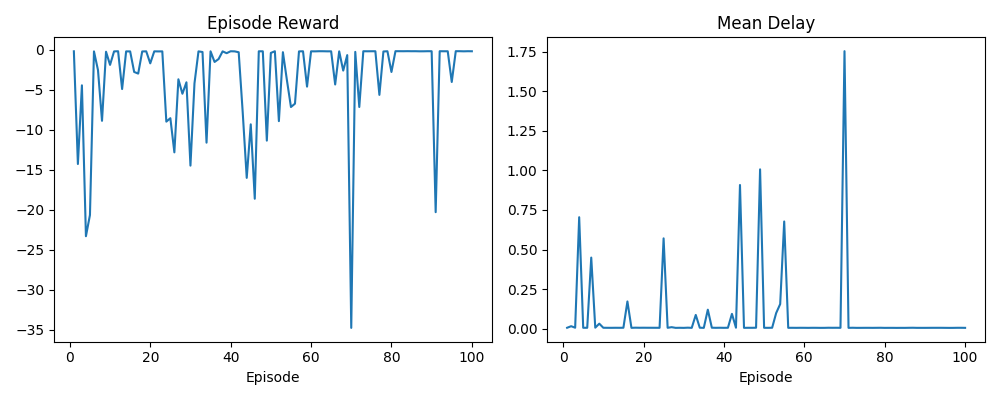
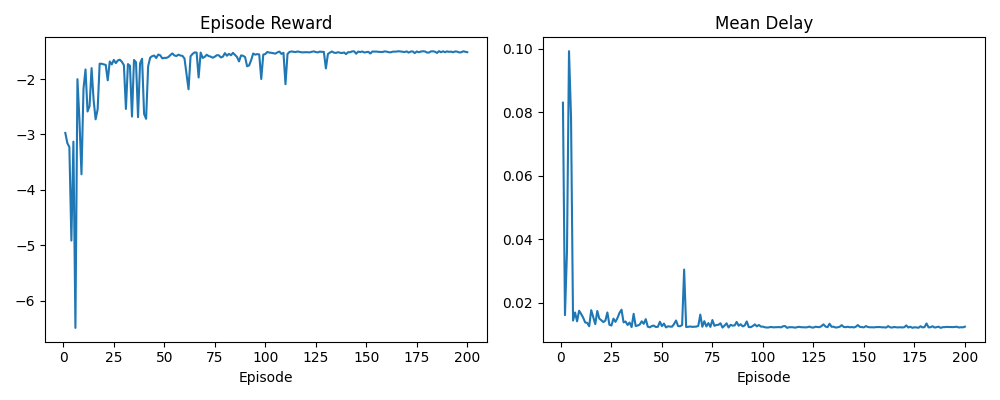
modified: Dec04 20:20

diff --git a/marl_core.py b/marl_core.py
@@ -127,8 +127,8 @@ class MultiStationCore:
         self,
         num_links_total=9,
         pkt_bits=30_000_000, # 8Mb
-        low_rate=40,
-        high_rate=150,
+        low_rate=10,
+        high_rate=50,
         mode="high",
         seed=0,
         rf_freq_ghz=19.0,
@@ -211,6 +211,43 @@ class MultiStationCore:
         
         self.weather = SimpleWeatherModel(seed)
 
+        self.log_file = "simulation_debug_log.csv" # デバッグ用
+        self.log_header = [
+            "TIME_SEC", 
+            "STEP", 
+            "GS_ID", 
+            "HO_EVENT", 
+            "ORBIT_HO",
+            "OLD_SAT", 
+            "NEW_SAT",
+            "LINKS_A_BEFORE", 
+            "LINKS_B_BEFORE",
+            "ACTION",
+            "LINKS_A_AFTER",
+            "LINKS_B_AFTER",
+            "CAPACITY_A_BPS", 
+            "CAPACITY_B_BPS",
+            "PACKETS_GENERATED", 
+            "PACKETS_SERVED",
+            "QUEUE_A_COUNT", 
+            "QUEUE_B_COUNT", 
+            "DELAY_MEAN_SEC",
+            "ISL_DELAY_SEC" 
+        ]
+        
+        # ログファイルの初期化
+        with open(self.log_file, "w", newline="") as f:
+            import csv
+            writer = csv.writer(f)
+            writer.writerow(self.log_header)
+            
+        # パケット到着ログ用のバッファ
+        self.packet_arrival_log = [] 
+        
+        # ... (既存の _init_allocation() などの呼び出し)
+        self._init_allocation()
+        self._init_link_capacities()
+
         self._init_allocation()
         self._init_link_capacities()
 
@@ -233,6 +270,33 @@ class MultiStationCore:
     # ==========================================================
     # Packet Generation
     # ==========================================================
+    """
+    def _generate_packets(self, lam, dt):
+       
+        #到着率 lam [pkt/s] で dt 秒間に発生するパケットリストを生成
+        #到着間隔は指数分布に従う (Poisson Process)
+        
+        packets = []
+        if lam <= 0:
+            return packets
+
+        t_cursor = self.current_time
+        end_time = self.current_time + dt
+        
+        while True:
+            # 次のパケットまでの間隔
+            interval = self.rng.exponential(1.0 / lam)
+            t_cursor += interval
+            
+            if t_cursor >= end_time:
+                break
+                
+            self.global_pkt_id += 1
+            # パケット生成 (ID, 絶対時刻, サイズ)
+            pkt = Packet(self.global_pkt_id, t_cursor, self.pkt_bits)
+            packets.append(pkt)
+            
+        return packets"""
     def _generate_packets(self, lam, dt):
         """
         到着率 lam [pkt/s] で dt 秒間に発生するパケットリストを生成
@@ -403,7 +467,7 @@ class MultiStationCore:
         snap = self.snapshots[0]
         return self._build_obs(snap)
 
-    # ==========================================================
+# ==========================================================
     # Step (Packet-Level Event Driven)
     # ==========================================================
     def step(self, actions):
@@ -495,18 +559,7 @@ class MultiStationCore:
             
             # パケット移動 (Buffer Transfer)
             # srcにある全パケットを取り出し、destの末尾に追加
-            # 各パケットの creation_time はいじらない（累積遅延に自然に加算されるため）
-            # ただし、ISL転送にかかる物理時間分だけ creation_time をマイナスするか、
-            # あるいは busy_until を後ろ倒しにするかだが、
-            # ここでは「パケットが瞬時に移動するが、ISL遅延分だけ余計に時間がかかった」とみなすため、
-            # 追加的な処理はせず、パケットが宛先キューで処理されるのを待つ。
-            # ISL遅延を明示的にRewardに反映させたい場合、パケットの送信完了時刻にゲタを履かせる等の処理が必要。
-            # 今回はシンプルに、「バッファが移動して、そこで処理待ちになる」ことで遅延が増えるモデルとする。
-            
-            # ※ ISL遅延を明示的に加算する場合、Packetに 'extra_delay' 属性を持たせる手もあるが、
-            # ここではHOペナルティとして固定値をReward計算時に考慮する方式をとるか、
-            # あるいは単純にキューが混むことによる遅延増加に任せる。
-            # ユーザ要望の「累積遅延」観点では、転送自体に時間がかかるはず。
+            # ... (中略)
             # 簡易実装: 移動するパケット全ての creation_time を total_isl_delay 分だけ過去にずらす(=遅延が増える)
             # これにより、送信完了時の (finish - creation) が増大する。
             

diff --git a/train_mappo.py b/train_mappo.py
@@ -208,7 +208,7 @@ if __name__ == "__main__":
 
     # 1) 学習
     agent, env, max_steps = train_mappo(
-        total_episodes=10,
+        total_episodes=200,
         max_steps_per_episode=None,
         device=device,
     )
@@ -218,7 +218,7 @@ if __name__ == "__main__":
         env=env,
         agent=agent,
         max_steps_per_episode=max_steps,
-        n_eval_episodes=20,
+        n_eval_episodes=50,
         mode="random",
         log_csv="action_delay_random.csv",
     )
@@ -228,7 +228,7 @@ if __name__ == "__main__":
         env=env,
         agent=agent,
         max_steps_per_episode=max_steps,
-        n_eval_episodes=20,
+        n_eval_episodes=50,
         mode="trained",
         log_csv="action_delay_trained.csv",
     )
